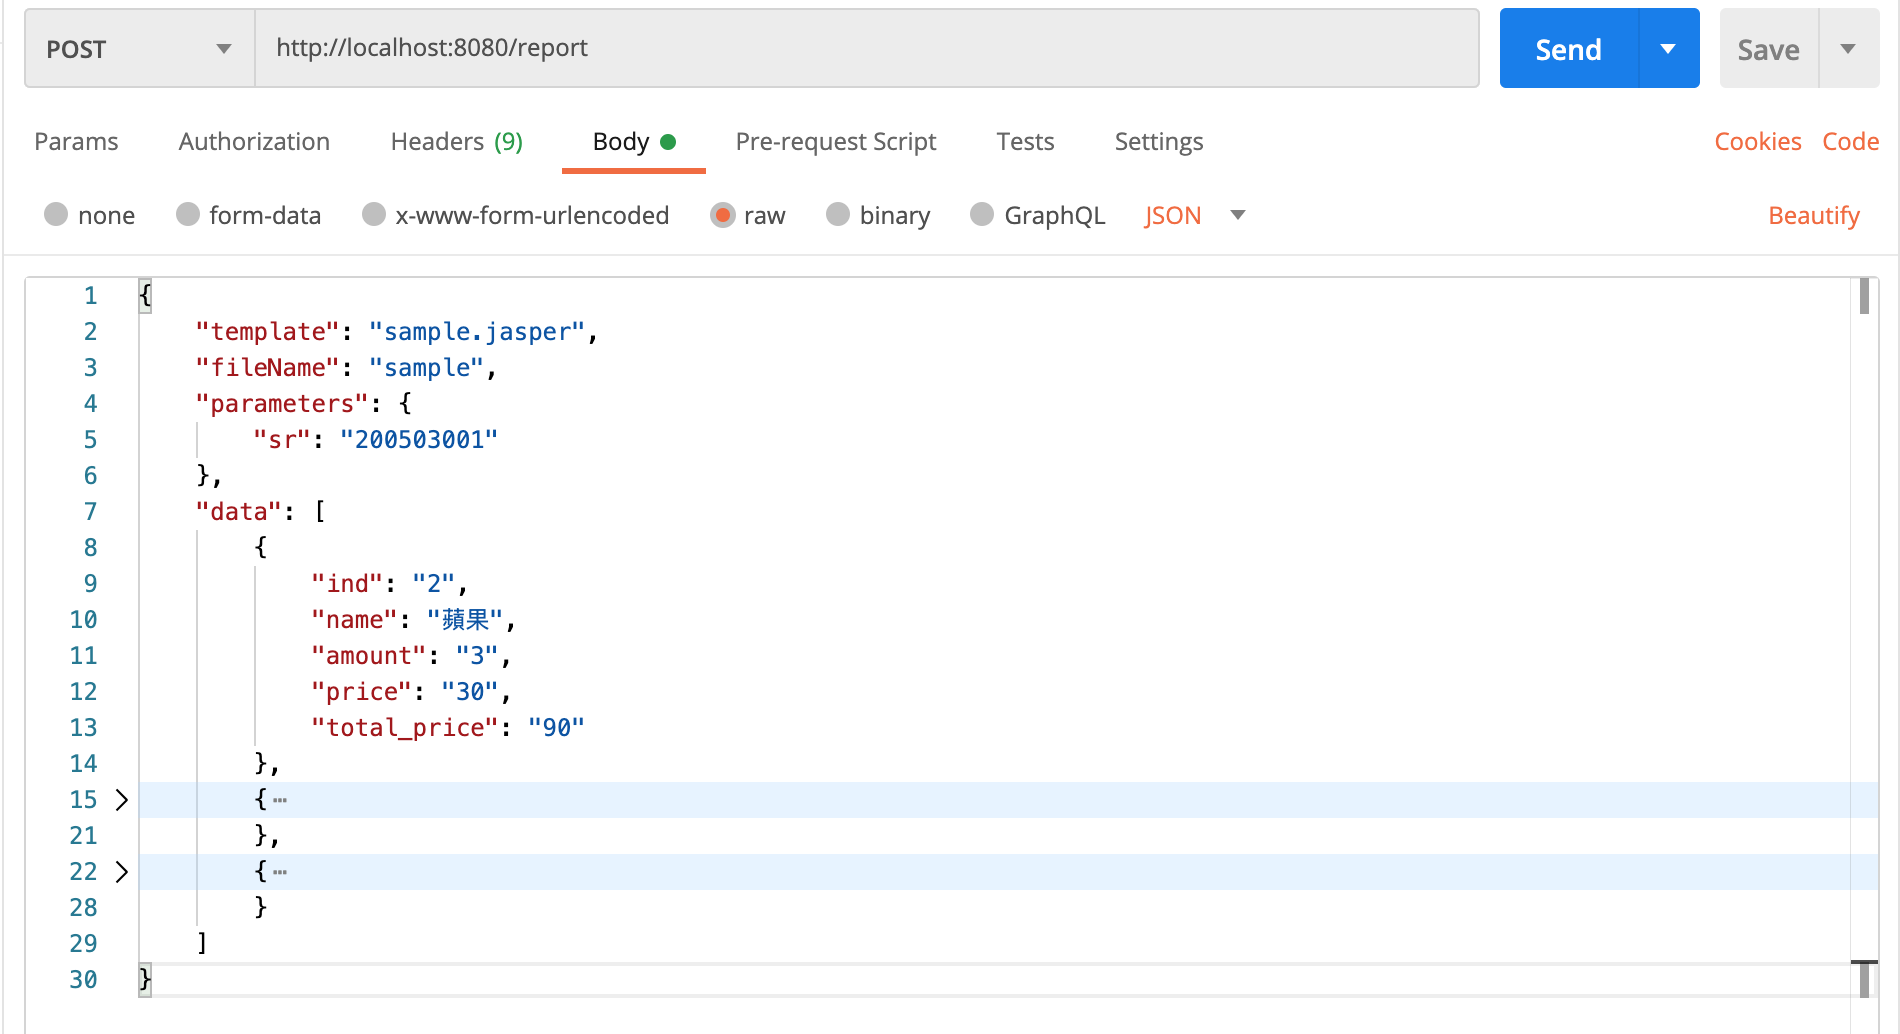
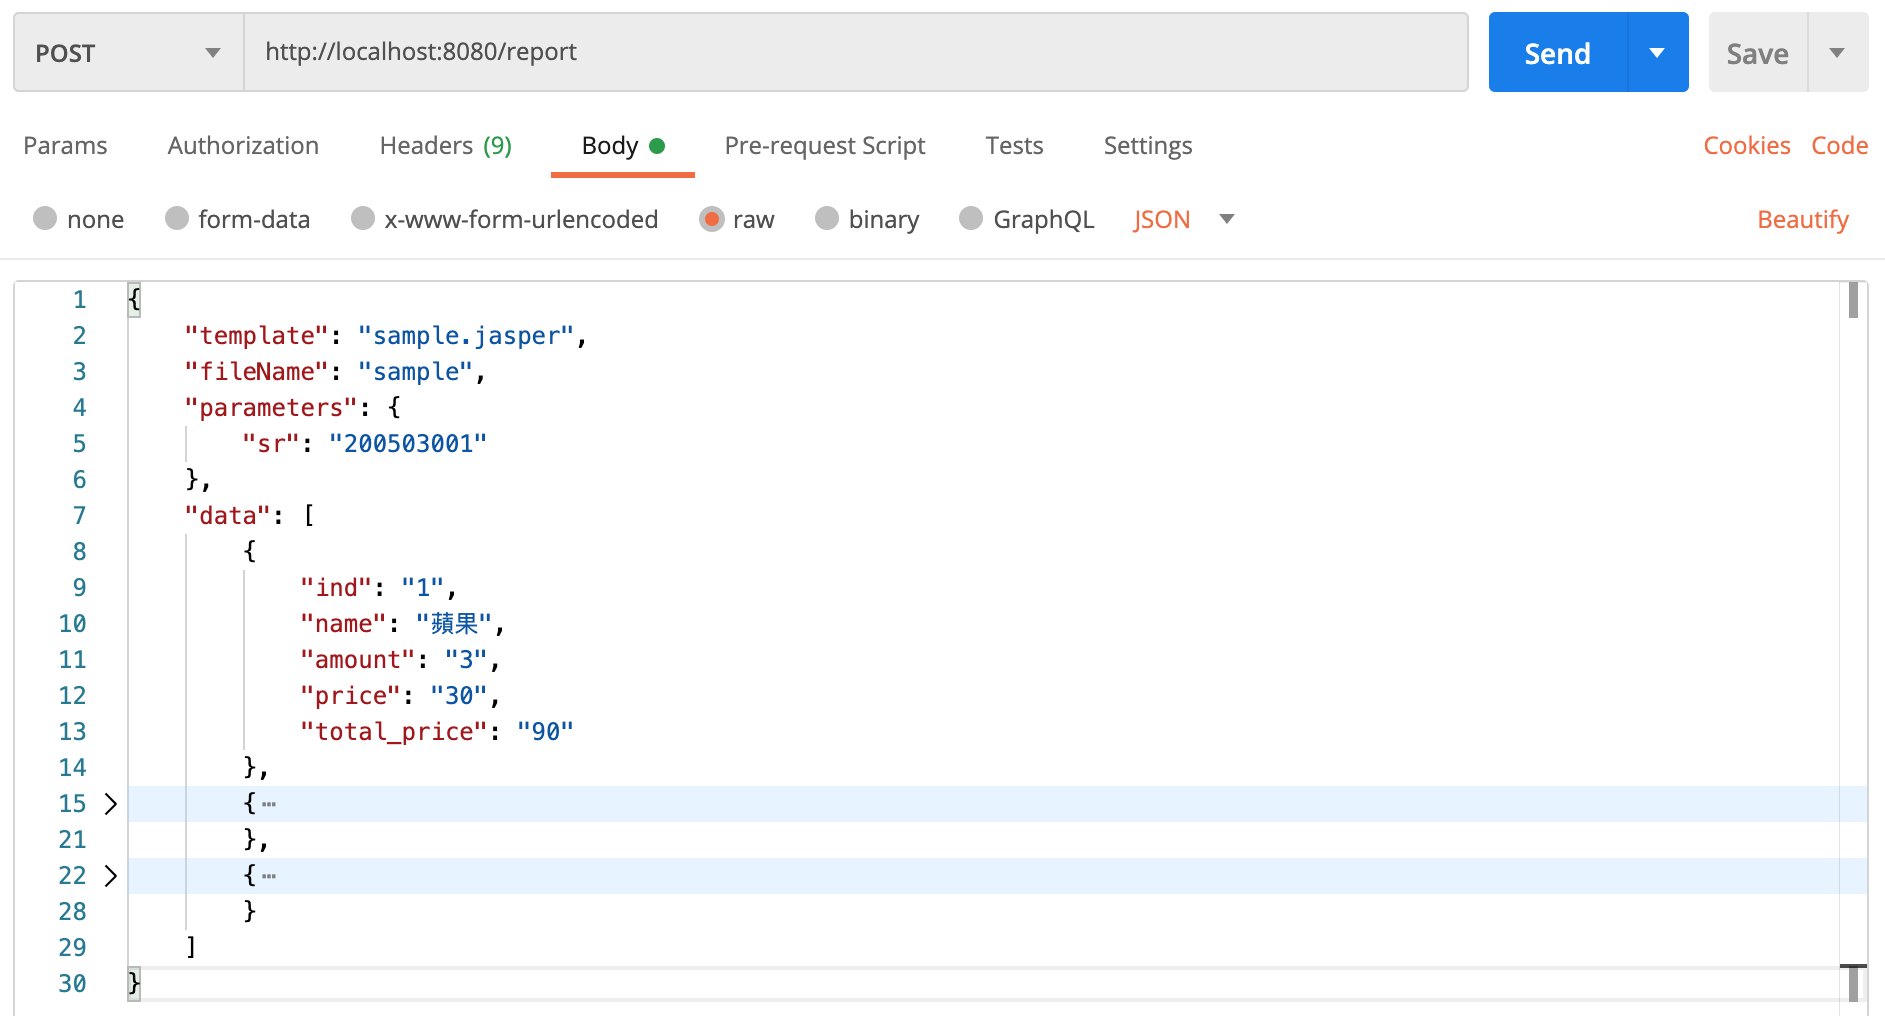
fix typo

diff --git a/_posts/2020-11-29-jasperreports-with-spring.md b/_posts/2020-11-29-jasperreports-with-spring.md
@@ -99,7 +99,7 @@ curl \
     },
     "data": [
       {
-        "ind": "2",
+        "ind": "1",
         "name": "蘋果",
         "amount": "3",
         "price": "30",
@@ -138,7 +138,7 @@ curl \
 
 在搞懂 Font Extension 前我也是依照這些分享使用這種方式，但後來發現限制實在太多，所以就還是走上正規的道路。雖然最後沒有採用這些解決方案，但有幾篇仍能提供一些不錯的思路，未來如果與到類似的問題或許可以作為參考。
 
-[Jasperreport 与 Springmvc 结合生成 PDF web 页面笔记（含解决中文问题）](https://blog.csdn.net/jiangkai528/article/details/51133347) 依照這篇文章提供的 dependencies 就能夠完整產製含有中文的報表，如果要使用繁體 pdfFontName 需設定為 MHei-Medium、MSung-Light 或 MSungStd-Light，pdfEncoding 設為 UniCNS-UCS2-H。而因為有限定了 jasperreports 的版本，所以可能會遇到使用 Jaspersoft Studio compile 出來的 jasper 在 run time 無法被使用的問題，這時候就要使用前面提到的調整 Jaspersoft Studio 的 compiler 版本來解決。
+[Jasperreport 与 Springmvc 结合生成 PDF web 页面笔记（含解决中文问题）](https://blog.csdn.net/jiangkai528/article/details/51133347)依照這篇文章提供的 dependencies 就能夠完整產製含有中文的報表，如果要使用繁體 pdfFontName 需設定為 MHei-Medium、MSung-Light 或 MSungStd-Light，pdfEncoding 設為 UniCNS-UCS2-H。而因為有限定了 jasperreports 的版本，所以可能會遇到使用 Jaspersoft Studio compile 出來的 jasper 在 run time 無法被使用的問題，這時候就要使用前面提到的調整 Jaspersoft Studio 的 compiler 版本來解決。
 
 [iText-Asian jar可 以使用的中文字符及 iText——>html2pdf 使用(附坑)](https://blog.csdn.net/weixin_41807385/article/details/98478061) 針對 iTextAsian.jar 提供了比較詳細的介紹與說明。
 
